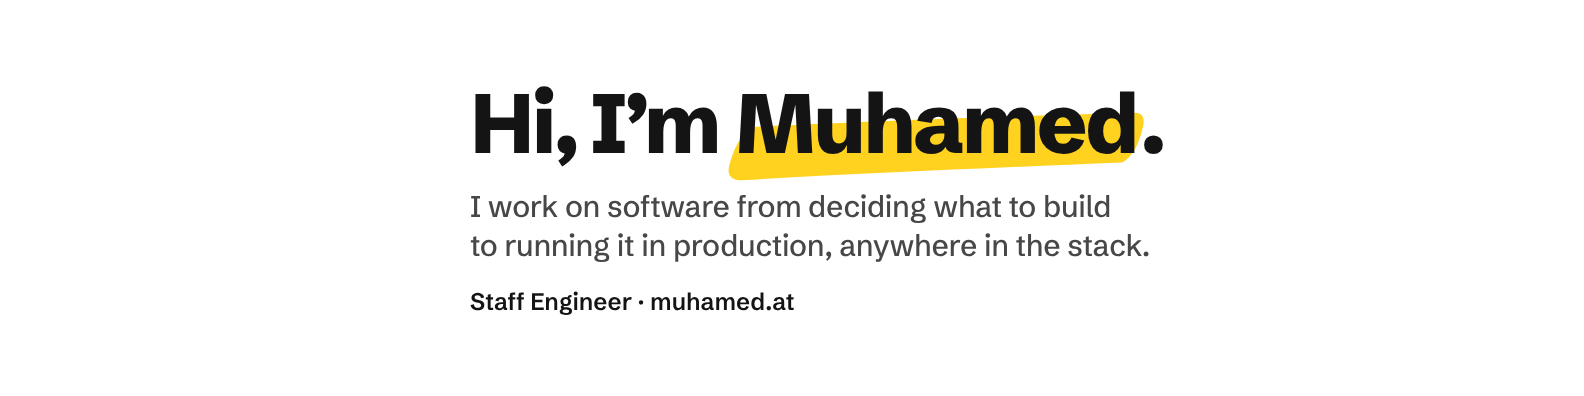
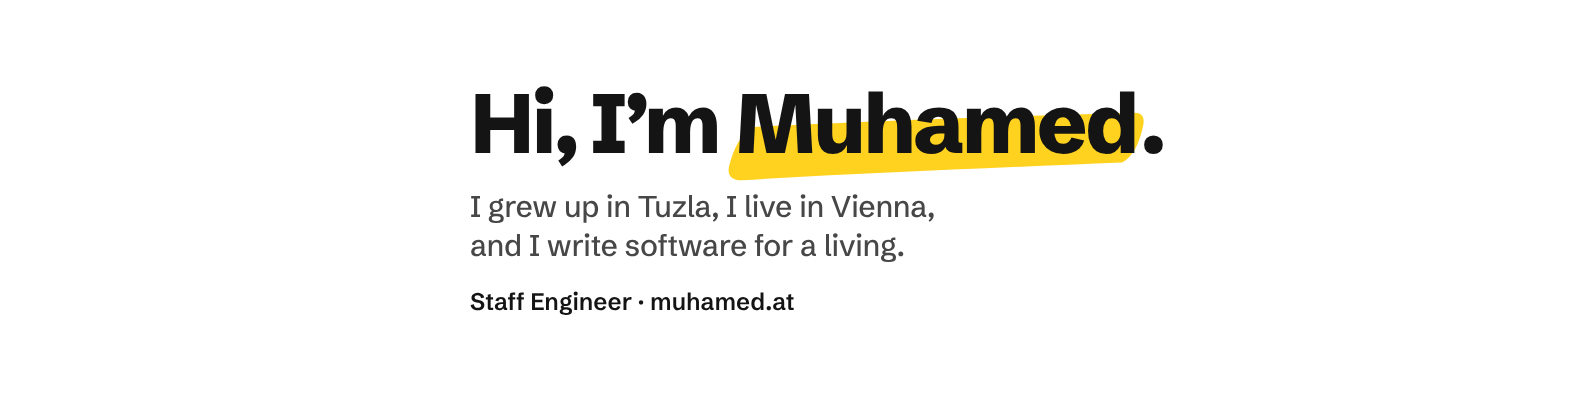
home: a warmer lead, from Tuzla to the conferences
The owner asked for the greeting and paragraph to be warmer and less
generic. The headline stays "Hi, I’m Muhamed." The lead is now made of
things only he can say: "I grew up in Tuzla, I live in Vienna, and I
write software for a living. For ten years that has meant everything
from deciding what to build to running it in production, anywhere in
the stack. Lately it also means AI features, and open-source tools that
keep coding agents in line. And I organise conferences, mostly to spend
a few days with people I can learn from." He found this draft closest
of three and cut its Rails sentence, which left out his other work.

The share card and the LinkedIn and X headers carry the lead's first
sentence under the greeting; the three images are re-rendered and their
alt texts and PRODUCT.md follow. Services above the quotes was mocked
up and not taken; the section order is unchanged.

Follow-up to the twenty-eighth change of
wiki/muhamed.github.io/adrs/professional-homepage-with-brain-and-writing.md
and the fifth change of
wiki/muhamed.github.io/adrs/amber-portrait-and-brand-kit.md.

Claude-Session: https://claude.ai/code/session_01XscJoG4SmD7LMe8LdYaRQg

Changed region(s): [[0.2784, 0.5758, 0.7424, 0.6667], [0.3093, 0.4848, 0.7115, 0.5758]]

diff --git a/.github/scripts/render-social-images.js b/.github/scripts/render-social-images.js
@@ -83,8 +83,8 @@ function servicePost(s, w, h) {
 // The site's greeting (files/_data/home.yml, hero.title) and, under it, the
 // first sentence of the hero's lead. Update both here when they change.
 // Its line breaks are set by hand, for the card and for the headers.
-const LEAD_CARD = 'I work on software from deciding<br>what to build to running it in production,<br>anywhere in the stack.';
-const LEAD_HEADER = 'I work on software from deciding what to build<br>to running it in production, anywhere in the stack.';
+const LEAD_CARD = 'I grew up in Tuzla, I live in Vienna,<br>and I write software for a living.';
+const LEAD_HEADER = LEAD_CARD;
 
 function share(w, h) {
   return `<div class="stage" style="--w:${w}px;--h:${h}px;display:grid;grid-template-columns:1fr 400px;">

diff --git a/files/brand.html b/files/brand.html
@@ -45,7 +45,7 @@ description: Photos, banners, colours, typeface and bios of Muhamed Isabegovic, 
     <div class="brand-banners">
       {% for bn in b.banners %}
       <figure class="brand-banner">
-        <img src="{{ site.baseurl }}/{{ bn.file }}" alt="{{ bn.name }}: Hi, I’m Muhamed. I work on software from deciding what to build to running it in production, anywhere in the stack. On white" loading="lazy">
+        <img src="{{ site.baseurl }}/{{ bn.file }}" alt="{{ bn.name }}: Hi, I’m Muhamed. I grew up in Tuzla, I live in Vienna, and I write software for a living. On white" loading="lazy">
         <figcaption>
           <strong>{{ bn.name }}</strong>
           <span>{{ bn.note }}</span>

diff --git a/files/_includes/meta.html b/files/_includes/meta.html
@@ -11,5 +11,5 @@
 {% if page.image == "/images/social/share.png" %}
 <meta property="og:image:width" content="1200"/>
 <meta property="og:image:height" content="630"/>
-<meta property="og:image:alt" content="Muhamed Isabegovic, Staff Engineer, Vienna: Hi, I’m Muhamed. I work on software from deciding what to build to running it in production, anywhere in the stack."/>
+<meta property="og:image:alt" content="Muhamed Isabegovic, Staff Engineer, Vienna: Hi, I’m Muhamed. I grew up in Tuzla, I live in Vienna, and I write software for a living."/>
 {% endif %}

diff --git a/wiki/muhamed.github.io/adrs/professional-homepage-with-brain-and-writing.md b/wiki/muhamed.github.io/adrs/professional-homepage-with-brain-and-writing.md
@@ -575,7 +575,22 @@ Engineer, the line under the buttons says Vienna, and how he helps is the
 "See how I can help" link and the services section. So the twenty-fourth
 change's point stands again: no lead spoken to the visitor. The share card
 and the headers carry the greeting over the lead's first sentence, and the
-alt texts follow.
+alt texts follow. On a third look, still the same day, the owner asked for
+the greeting and the paragraph to be warmer, more welcoming and "less AI
+generic". The greeting stays "Hi, I’m Muhamed." with no second line. The
+lead is now made of things only he can say, with his "from deciding what to
+build ..." in the middle: "I grew up in Tuzla, I live in Vienna, and I write
+software for a living. For ten years that has meant everything from deciding
+what to build to running it in production, anywhere in the stack. Lately it
+also means AI features, and open-source tools that keep coding agents in
+line. And I organise conferences, mostly to spend a few days with people I
+can learn from." (source: files/_data/home.yml). Tuzla, Vienna and why he
+organises conferences are the About page's (source: files/_pages/about.md).
+It names no stack: a draft that said "For ten years that meant products in
+Rails" left out his other work. The share card and the headers carry "I grew
+up in Tuzla, I live in Vienna, and I write software for a living." under the
+greeting. The order of the homepage's sections is unchanged: quotes, then
+services.
 
 ## Approval
 
@@ -701,7 +716,17 @@ three mockups of the built hero (his paragraph alone; with one sentence of
 help, "If that’s what your team needs, I can help."; with a row of links to
 the four services) he chose "A: paragraph only", and for its opening
 "Without the ten years" over "For ten years I’ve worked on software ..." and
-"I’m a Staff Engineer. I work on software ...".
+"I’m a Staff Engineer. I work on software ...". Then: "mock up services
+above the quotes... Also, maybe rewrite the paragraph and the greeting ? To
+be more warm and welcoming and less AI generic". From mockups of two orders
+with services above the quotes he chose "Keep the current order". Of three
+warmer drafts with a second line in the headline ("Welcome.", "Nice to meet
+you.", "Glad you’re here.") he chose none, then "No second line" and, for
+what was off, "Still sounds generic". Of three paragraphs built from facts
+about him (his path from C++ trading systems; from Tuzla; what he does these
+days) he said: "B version is closest, I don't like Rails mention excluding
+other stuff". The sentence that replaced the Rails one is the agent's
+draft, for the owner to adjust.
 
 ## Related
 

diff --git a/PRODUCT.md b/PRODUCT.md
@@ -42,14 +42,17 @@ believing it from evidence they could check, and knowing how to reach him.
 from idea to production", a line he liked but felt many people now use
 because AI suggests it): simple and personal, who he is and how he could
 help, with "Muhamed" on the hand-drawn highlighter the site and every
-generated image use. The hero's lead is his own paragraph, kept from the
-ten-years hero and given a subject: "I work on software from deciding what
-to build to running it in production, anywhere in the stack. Lately I also
-work one layer up, with agents writing the code, and build open-source tools
-that keep that reliable." How he helps is the link under it and the services
-section; a lead that listed three services read as something any consultant
-could say and was replaced the same day. The share card and the white
-LinkedIn and X headers carry the greeting over the lead's first sentence.
+generated image use. The hero's lead is warm and made of things only he can
+say: "I grew up in Tuzla, I live in Vienna, and I write software for a
+living. For ten years that has meant everything from deciding what to build
+to running it in production, anywhere in the stack. Lately it also means AI
+features, and open-source tools that keep coding agents in line. And I
+organise conferences, mostly to spend a few days with people I can learn
+from." It names no stack, so the first screen does not read as Rails-only.
+How he helps is the link under it and the services section; leads that
+listed services or described the job in general terms read as generic and
+were replaced the same day. The share card and the white LinkedIn and X
+headers carry the greeting over the lead's first sentence.
 Clients hire him to build and lead; AI is one of the
 things he builds, not the pitch. His edge is making companies AI-native, in how they
 build and in what they build, with open-source tools he builds and teaches.

diff --git a/log/log.md b/log/log.md
@@ -349,3 +349,5 @@
    by: agent
 - site, brand: the twenty-eighth change's follow-up, on the owner's word ("a step in the right direction... I liked this also... review and find ways to improve"): the hero's lead is his own paragraph again, with a subject now that it follows the greeting: "I work on software from deciding what to build to running it in production, anywhere in the stack. Lately I also work one layer up, with agents writing the code, and build open-source tools that keep that reliable." His pick from three mockups (the paragraph alone, over one with a sentence of help and one with links to the services) and, for the opening, without the ten years. The lead written earlier that day, which listed three services, is gone. The share card and the LinkedIn and X headers carry the greeting over the lead's first sentence; images re-rendered, alt texts and PRODUCT.md updated.
    by: agent
+- site, brand: the twenty-eighth change, third look, on the owner's ask (the greeting and paragraph "more warm and welcoming and less AI generic"): the headline stays "Hi, I’m Muhamed." with no second line, and the lead is "I grew up in Tuzla, I live in Vienna, and I write software for a living. For ten years that has meant everything from deciding what to build to running it in production, anywhere in the stack. Lately it also means AI features, and open-source tools that keep coding agents in line. And I organise conferences, mostly to spend a few days with people I can learn from." The owner found the "From Tuzla" draft closest of three and cut its Rails sentence, which left out his other work. The share card and the LinkedIn and X headers carry the lead's first sentence under the greeting; images re-rendered, alt texts and PRODUCT.md updated. Mocked up and not taken: services above the quotes (two orders); the owner kept the current order.
+   by: agent

diff --git a/wiki/muhamed.github.io/records/amber-portrait-and-brand-kit.md b/wiki/muhamed.github.io/records/amber-portrait-and-brand-kit.md
@@ -85,6 +85,11 @@ PDF are byte-identical to the built ones.
   deciding what to build to running it in production, anywhere in the
   stack." (source: .github/scripts/render-social-images.js). All three
   rendered without overflow.
+- Later again on 2026-11-21: with the hero's lead rewritten, that sentence
+  is "I grew up in Tuzla, I live in Vienna, and I write software for a
+  living." on the headers and the share card (source:
+  .github/scripts/render-social-images.js). All three rendered without
+  overflow. Not yet uploaded to the profiles.
 
 ## Related
 

diff --git a/wiki/muhamed.github.io/adrs/amber-portrait-and-brand-kit.md b/wiki/muhamed.github.io/adrs/amber-portrait-and-brand-kit.md
@@ -142,7 +142,9 @@ profiles show the ten-years line. On a second look the same day the hero's
 lead became the owner's own paragraph again (homepage ADR, twenty-eighth
 change), so the sentence under the greeting is its first: "I work on
 software from deciding what to build to running it in production, anywhere
-in the stack."
+in the stack." On a third look the lead was rewritten to be warmer, and the
+sentence under the greeting is again its first: "I grew up in Tuzla, I live
+in Vienna, and I write software for a living."
 
 ## Related
 
